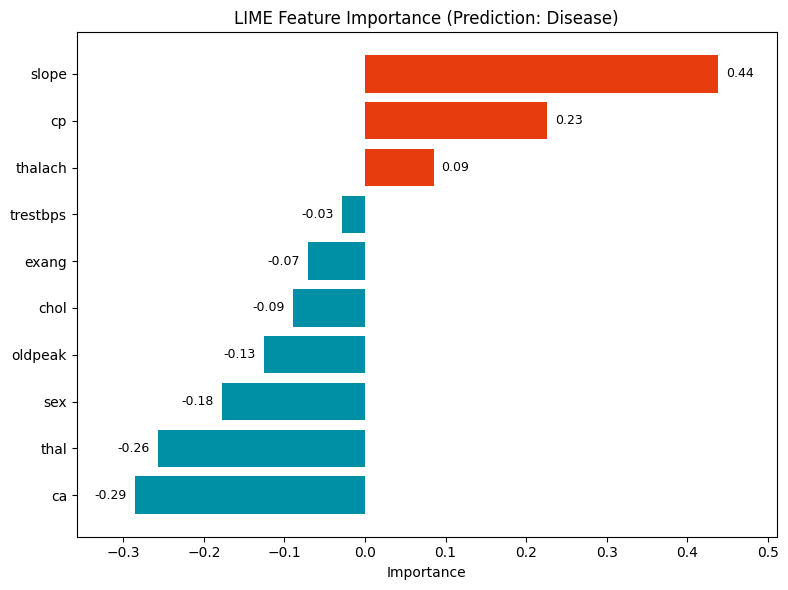
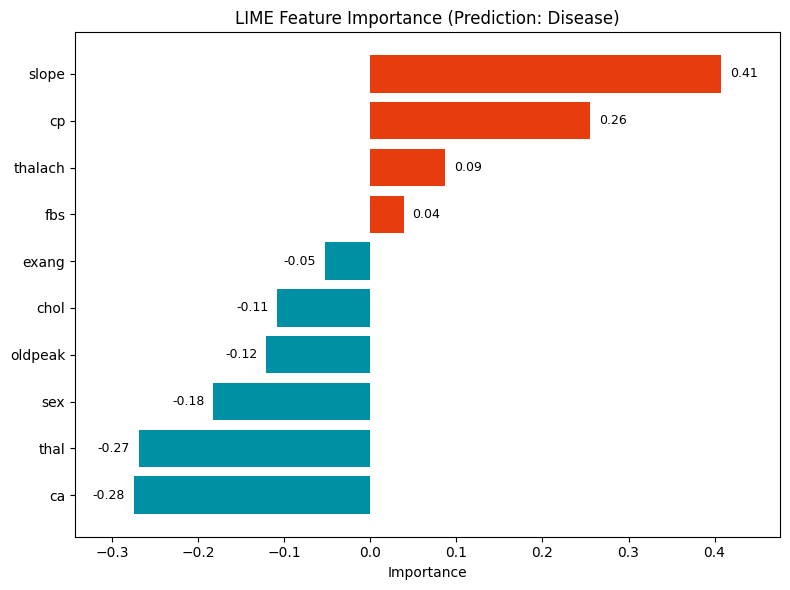
prediction and lime value fix

diff --git a/templates/manage_models.html b/templates/manage_models.html
@@ -57,7 +57,7 @@
           </div>
 
           <div class="mb-3">
-            <label for="modelFile" class="form-label">Model File (.zip)</label>
+            <label for="modelFile" class="form-label">Model File (.zip must include 'model.pkl', 'feature-mapping.json', and 'metrics.json')</label>
             <input type="file" class="form-control" id="modelFile" name="modelFile" accept=".zip" required>
           </div>
       </div>

diff --git a/routes.py b/routes.py
@@ -115,6 +115,7 @@ def input_params():
     form = PredictionForm(request.form)
     if request.method == "POST" and form.validate():
         features = extract_form_features(form)
+        session['prediction_values'] = map_features(features)
         selected_model = request.form.get("model", "xgboost").lower()
         payload = {
             "features": features,
@@ -128,7 +129,7 @@ def input_params():
                 data = response.json()
                 prediction = data.get("prediction")
                 lime_image_path = data.get("lime_image_path")
-                # You can store these in session if needed or pass directly to the template
+                session['lime_explanation'] = data.get("lime_explanation")
                 session['prediction'] = prediction
                 session['lime_image_path'] = lime_image_path
             else:

diff --git a/api.py b/api.py
@@ -81,6 +81,7 @@ def predict_api():
     return jsonify({
         "prediction": prediction,
         "lime_values": lime_values,
+        "lime_explanation": lime_explanation,
         "lime_image_path" : lime_image_path
     })
 
